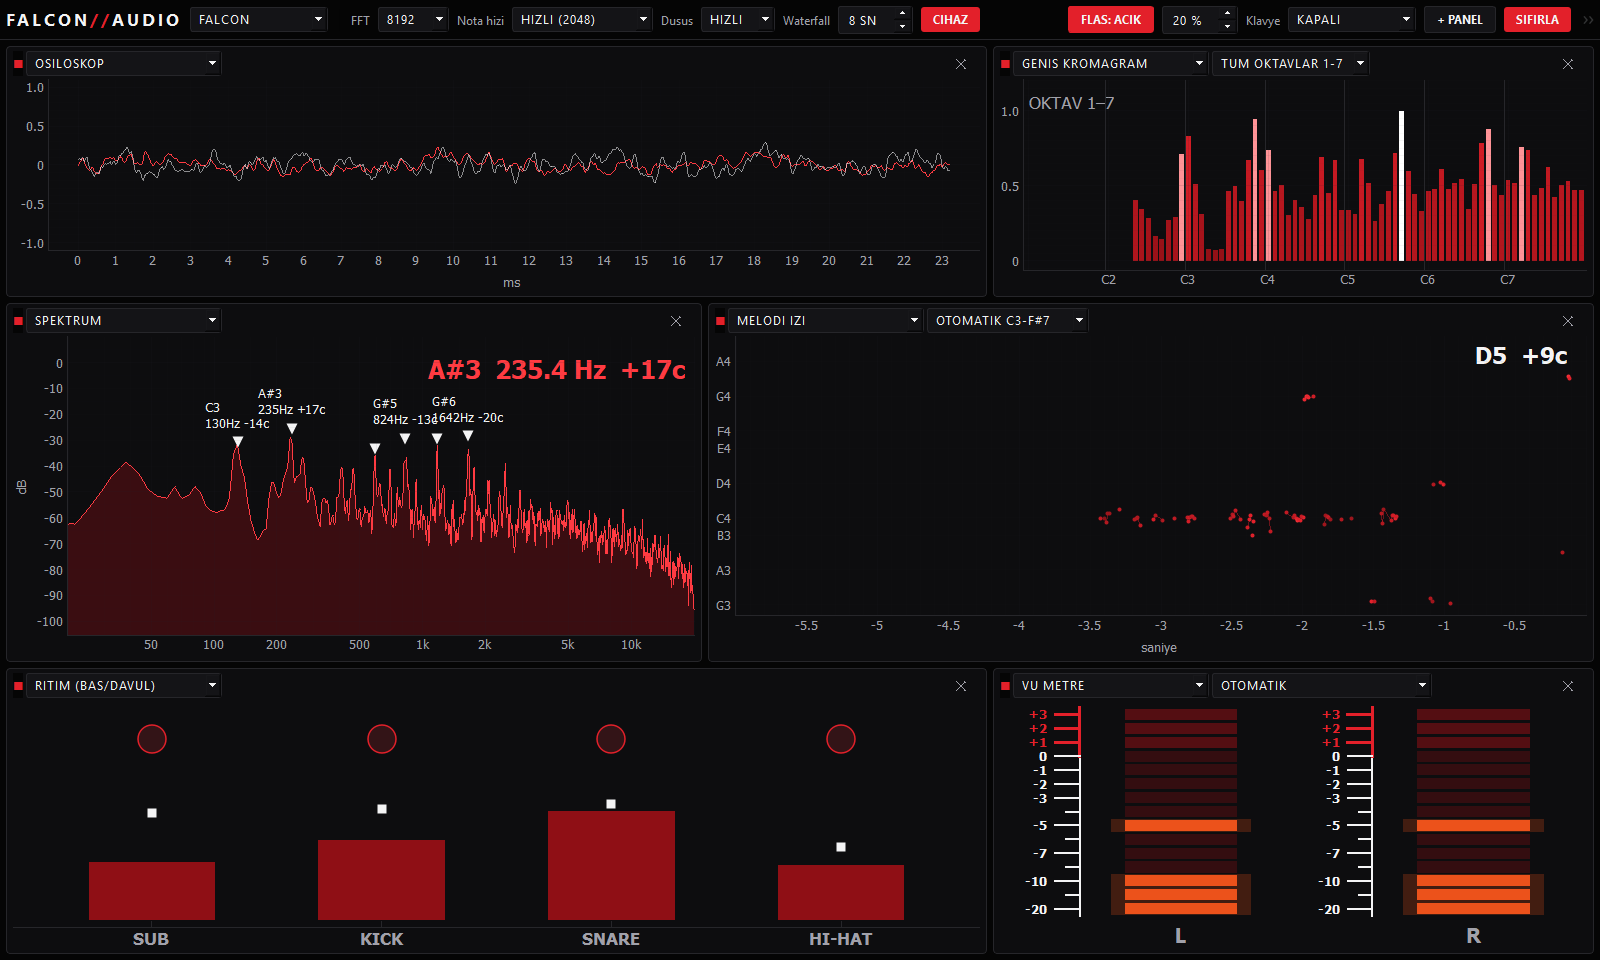
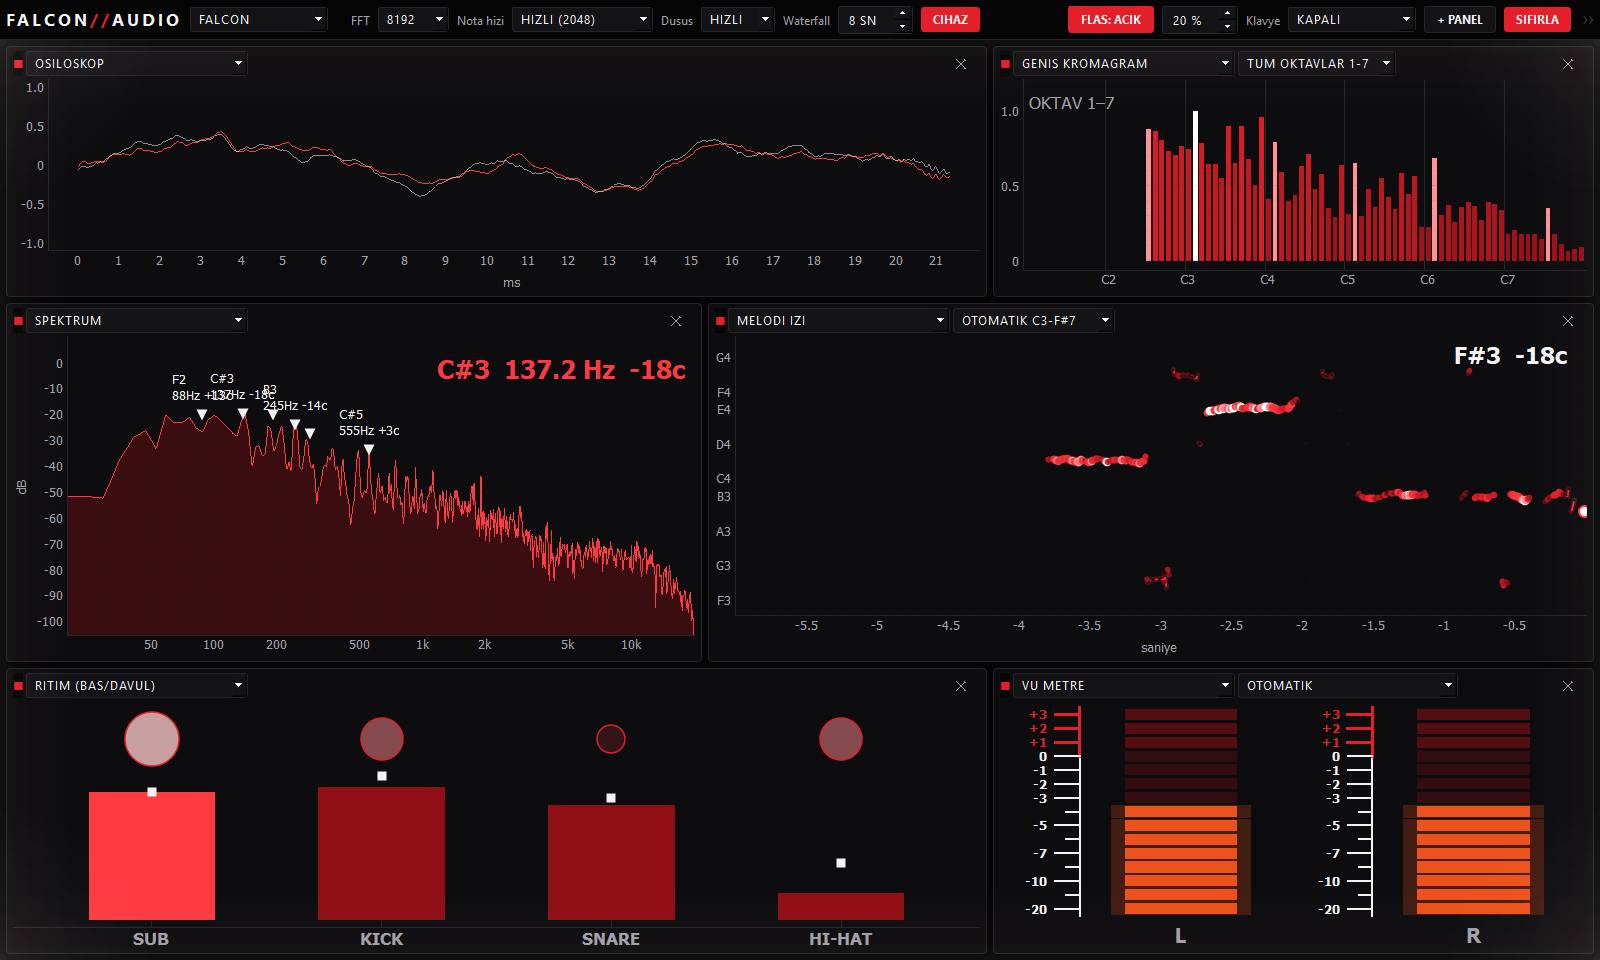
Oturum kaydi (kaldigi yerden acilis), README ve yeni ekran goruntuleri
- Pencere, paneller, panel ayarlari, tema ve cihaz ~/.falcon_audio/state.json'a atomik kaydedilir
- README: Piyano (4 mod), Spotify, Medya, Pencere Yakalama, istege bagli paketler
- Yeni goruntuler: piano.png, drums.png, guncel falcon.png

diff --git a/scope.py b/scope.py
@@ -6,6 +6,7 @@ Bilgisayarda calan sesi (Spotify vb.) WASAPI loopback ile yakalar.
 Gorunumler: Osiloskop, Spektrum, Kromagram, Nota x Oktav, Waterfall,
             Oktav Sarmali (animasyon), Oktav Enerjisi
 """
+import os
 import threading
 import numpy as np
 import pyaudiowpatch as pyaudio
@@ -2577,6 +2578,68 @@ class Main(QtWidgets.QMainWindow):
         self.t = QtCore.QTimer(); self.t.setTimerType(QtCore.Qt.PreciseTimer)
         self.t.timeout.connect(self.tick); self.t.start(14)
         self.clock = QtCore.QElapsedTimer(); self.clock.start(); self.frames = 0
+        self.autosave = QtCore.QTimer(); self.autosave.timeout.connect(self.save_state)
+        if not os.environ.get("SCOPE_AUTOTEST"):
+            self.autosave.start(10000)                      # ani kapanis/elektrik kesintisine karsi
+
+    # ---------- oturum kaydi: kapaninca (ve 10 sn'de bir) kaydet, acilista geri yukle ----------
+    @staticmethod
+    def _combos(view):
+        ex = view.extra
+        if ex is None:
+            return []
+        return [ex] if isinstance(ex, QtWidgets.QComboBox) else ex.findChildren(QtWidgets.QComboBox)
+    def save_state(self):
+        import json, base64
+        b64 = lambda ba: base64.b64encode(bytes(ba)).decode()
+        st = dict(
+            geom=b64(self.saveGeometry()), theme=self.c_theme.currentText(),
+            big=self.c_big.currentIndex(), fast=self.c_fast.currentIndex(), decay=self.c_decay.currentIndex(),
+            wf=self.s_wf.value(), flash=self.b_flash.isChecked(), flash_pct=self.s_flash.value(),
+            kbd=self.c_kbd.currentIndex(), device=CUR_DEV,
+            vs=b64(self.vs.saveState()), rows=[b64(r.saveState()) for r in self.rows],
+            panels=[dict(view=pn.combo.currentText(), hidden=pn.isHidden(),
+                         extra=[c.currentIndex() for c in self._combos(pn.view)]) for pn in self.panels])
+        try:
+            os.makedirs(os.path.dirname(STATE_FILE), exist_ok=True)
+            tmp = STATE_FILE + ".tmp"
+            with open(tmp, "w", encoding="utf8") as f:
+                json.dump(st, f); f.flush(); os.fsync(f.fileno())
+            os.replace(tmp, STATE_FILE)                     # atomik: elektrik gitse de yarim dosya kalmaz
+        except Exception as e:
+            print("durum kaydedilemedi:", e)
+    def load_state(self, st):
+        import base64
+        ba = lambda s: QtCore.QByteArray(base64.b64decode(s))
+        def safe(f):
+            try:
+                f()
+            except Exception as e:
+                print("durum geri yuklenemedi:", e)
+        safe(lambda: self.restoreGeometry(ba(st["geom"])))
+        safe(lambda: self.c_theme.setCurrentText(st["theme"]))
+        for w, k in ((self.c_big, "big"), (self.c_fast, "fast"), (self.c_decay, "decay"), (self.c_kbd, "kbd")):
+            safe(lambda w=w, k=k: w.setCurrentIndex(st[k]))
+        safe(lambda: self.s_wf.setValue(st["wf"]))
+        safe(lambda: self.b_flash.setChecked(st["flash"]))
+        safe(lambda: self.s_flash.setValue(st["flash_pct"]))
+        for pn, ps in zip(self.panels, st.get("panels", [])):
+            def one(pn=pn, ps=ps):
+                if pn.combo.currentText() != ps["view"]:
+                    pn.combo.setCurrentText(ps["view"])
+                for c, i in zip(self._combos(pn.view), ps.get("extra", [])):
+                    if 0 <= i < c.count():
+                        c.setCurrentIndex(i)
+                pn.setHidden(ps.get("hidden", False))
+            safe(one)
+        def splitters():
+            safe(lambda: self.vs.restoreState(ba(st["vs"])))
+            for r, s in zip(self.rows, st.get("rows", [])):
+                safe(lambda r=r, s=s: r.restoreState(ba(s)))
+        QtCore.QTimer.singleShot(60, splitters)             # reset_layout'tan (singleShot 0) SONRA
+    def closeEvent(self, ev):
+        self.save_state()
+        super().closeEvent(ev)
 
     def set_theme(self, name):
         apply_theme(name)
@@ -2658,7 +2721,8 @@ class Main(QtWidgets.QMainWindow):
         dev = choose_device(self)
         if dev is None:
             return
-        open_stream(dev)
+        global CUR_DEV
+        open_stream(dev); CUR_DEV = dev["name"]
         self.dev_lbl.setText(dev["name"].replace(" [Loopback]", "")[:40])
         self.reconf()
         for pn in self.panels:          # RATE degismis olabilir -> gorunumleri yenile
@@ -2691,6 +2755,17 @@ class Main(QtWidgets.QMainWindow):
             self.fps.setText(f"{self.frames} FPS · nota gecikmesi ~{lat:.0f} ms")
             self.frames = 0; self.clock.restart()
 
+STATE_FILE = os.path.join(os.path.expanduser("~"), ".falcon_audio", "state.json")
+CUR_DEV = None
+
+def read_state():
+    import json
+    try:
+        with open(STATE_FILE, encoding="utf8") as f:
+            return json.load(f)
+    except Exception:
+        return None
+
 def choose_device(parent=None):
     devs = list_devices()
     dlg = QtWidgets.QDialog(parent); dlg.setWindowTitle("FALCON // Ses kaynagi sec")
@@ -2722,14 +2797,23 @@ app.setStyleSheet(QSS)
 _ico = __import__("os").path.join(__import__("os").path.expanduser("~"), ".falcon_audio", "icon.ico")
 if __import__("os").path.exists(_ico):
     app.setWindowIcon(QtGui.QIcon(_ico))
-import os
 AUTOTEST = os.environ.get("SCOPE_AUTOTEST")          # test: dialogsuz baslat, 5 sn sonra kapan
-first = list_devices()[0][1] if AUTOTEST else choose_device()
+STATE = None if AUTOTEST else read_state()
+first = None
+if AUTOTEST:
+    first = list_devices()[0][1]
+elif STATE and STATE.get("device"):                 # son cihaz hala varsa sormadan baslat
+    first = next((d for _, d in list_devices() if d["name"] == STATE["device"]), None)
+if first is None:
+    first = choose_device()
 if AUTOTEST:
     QtCore.QTimer.singleShot(5000, app.quit)
 if first is None:
     raise SystemExit
-open_stream(first)
-m = Main(); m.dev_lbl.setText(first["name"].replace(" [Loopback]", "")[:40]); m.show()
+open_stream(first); CUR_DEV = first["name"]
+m = Main(); m.dev_lbl.setText(first["name"].replace(" [Loopback]", "")[:40])
+if STATE:
+    m.load_state(STATE)
+m.show()
 app.exec_()
 stream.stop_stream(); stream.close(); p.terminate()

diff --git a/README.md b/README.md
@@ -6,7 +6,7 @@ Bilgisayarda çalan sesi (Spotify, YouTube, oyun… ne çalarsa) ya da mikrofonu
 
 ## Özellikler
 
-**16 görünüm.** Ekranda 6 panel var. Her panelin üstündeki menüden görünüm seçilir. Paneller sürüklenerek boyutlandırılır, ✕ ile kapatılır.
+**20 görünüm.** Ekranda 6 panel var. Her panelin üstündeki menüden görünüm seçilir. Paneller sürüklenerek boyutlandırılır, ✕ ile kapatılır.
 
 | Görünüm | Ne gösterir |
 |---|---|
@@ -20,15 +20,31 @@ Bilgisayarda çalan sesi (Spotify, YouTube, oyun… ne çalarsa) ya da mikrofonu
 | Oktav Sarmalı / Oktav Enerjisi | Notaların oktav sarmalı üzerinde animasyonu |
 | Ritim / Davul Izgarası / Davul İzi | Kick, snare ve hi-hat algılama, BPM, 16 adımlık davul kalıbı ve zaman çizelgesi |
 | VU Metre / Analog VU | LED ya da ibreli VU. Referans seviyesi seçilebilir ya da otomatik |
+| **Piyano** | Çalan notalar klavyede yanar, üstte piyano rulosu akar. 4 algılama modu (aşağıda), tuş aralığı (37–88 tuş), rulo hızı (1–8 sn) ve tetik eşiği seçilir. Aynı tuşa hızlı tekrar basışlar ayrı ayrı görünür |
+| Spotify | Çalan şarkı, kapak, ilerleme ve oynat/durdur/ileri/geri. Kendi Spotify Developer uygulamanın Client ID'si gerekir (aşağıda) |
+| Medya | Windows'ta medya çalan her uygulamanın (tarayıcı, YouTube Music, VLC…) şarkı bilgisi ve kontrolleri |
+| Pencere Yakalama | Seçilen bir uygulama penceresinin canlı görüntüsü (örn. Spotify'daki video) |
+
+### Piyano algılama modları
+
+| Mod | Nasıl çalışır | Ne zaman |
+|---|---|---|
+| **NMF** (varsayılan) | Spektrumu notaların harmonik şablonlarının toplamı olarak çözer | Anlık tepki. Sentetik akor testinde F1 0,98 |
+| **Model** | Spotify'ın açık kaynak [basic-pitch](https://github.com/spotify/basic-pitch) sinir ağı (ONNX). Son 2 sn sesi saniyede ~12 kez işler | Gerçek kayıtlarda en temiz sonuç, bas notalarını da bulur. İsteğe bağlı kurulum ister |
+| Filtre | Harmonikleri eleyen basit tepe filtresi | Hafif |
+| Ham | Tüm yarım ton tepeleri | Hata ayıklama |
+
+![Piyano: solda NMF, sağda Model](screenshots/piano.png)
 
 **Diğer:**
+- **Kaldığı yerden açılır:** Pencere boyutu, paneller, her panelin ayarları, tema ve ses cihazı kapanışta (ve 10 saniyede bir) `~/.falcon_audio/state.json` dosyasına kaydedilir. Son cihaz hâlâ bağlıysa açılışta sormadan başlar. Sıfırdan başlamak için bu dosyayı sil.
 - 6 tema: Falcon, Analog Amber, Neon Cyan, Fosfor Yeşil, Synthwave, **Retro Analog**
 - Kick vuruşunda pencere kenarlarında parlama
 - **ASUS TUF klavye RGB:** Klavye ışığı kick'e, notaya ya da ses seviyesine tepki verir. Sadece ASUS TUF laptoplarda çalışır, diğer bilgisayarlarda kendini kapatır.
 
-| Retro Analog | Neon Cyan | Analog Amber |
-|---|---|---|
-| ![](screenshots/retro-analog.png) | ![](screenshots/neon-cyan.png) | ![](screenshots/analog-amber.png) |
+| Retro Analog | Neon Cyan | Analog Amber | Synthwave: davul görünümleri |
+|---|---|---|---|
+| ![](screenshots/retro-analog.png) | ![](screenshots/neon-cyan.png) | ![](screenshots/analog-amber.png) | ![](screenshots/drums.png) |
 
 ## Kurulum
 
@@ -39,13 +55,31 @@ pip install -r requirements.txt
 python scope.py
 ```
 
-Açılışta ses kaynağı seçilir. 🔊 işaretliler bilgisayarda çalan ses, 🎤 işaretliler mikrofon. Kaynak sonradan **CİHAZ** düğmesiyle değiştirilebilir.
+İsteğe bağlı paketler:
+
+```
+pip install basic-pitch onnxruntime
+pip install winrt-runtime winrt-Windows.Media.Control winrt-Windows.Storage.Streams
+```
+
+İlki Piyano panelinin "Model" modu, ikincisi Medya paneli için. Kurulu değilse program yine çalışır, sadece o özellik devre dışı kalır.
+
+İlk açılışta ses kaynağı seçilir. 🔊 işaretliler bilgisayarda çalan ses, 🎤 işaretliler mikrofon. Kaynak sonradan **CİHAZ** düğmesiyle değiştirilebilir.
 
 Tema yazı tipi [Chakra Petch](https://fonts.google.com/specimen/Chakra+Petch) (Google Fonts). Yüklü değilse Segoe UI kullanılır.
+
+### Spotify paneli
+
+1. [developer.spotify.com/dashboard](https://developer.spotify.com/dashboard) adresinde bir uygulama oluştur.
+2. Redirect URI olarak `http://127.0.0.1:8888/callback` ekle.
+3. Paneldeki giriş düğmesine bas ve **Client ID**'yi yapıştır. Tarayıcıda Spotify'a giriş yapılır. PKCE kullanıldığı için Client Secret gerekmez.
+
+Client ID ve oturum anahtarı sadece kendi bilgisayarında, `~/.falcon_audio/spotify.json` dosyasında tutulur. Bu dosyayı kimseyle paylaşma, repoya da ekleme.
 
 ## Bilinen sınırlar
 
 - Melodi ve akor algılama tam bir mikste yaklaşıktır. Vokal ile enstrümanlar karışabilir. Sade vokal ya da solo kayıtlarda daha temiz sonuç verir.
+- Piyano "Model" modu yaklaşık 0,1–0,2 sn geriden gelir ve işlemciye ek yük bindirir.
 - 170+ BPM'lik şarkılarda tempo yarısı olarak gösterilebilir.
 - C1 ile ~D#2 arasındaki notalar FFT çözünürlüğü yetmediği için gösterilmez.
 - Klavye RGB özelliği belgelenmemiş bir ASUS arayüzünü kullanır, Armoury Crate ile çakışabilir.
